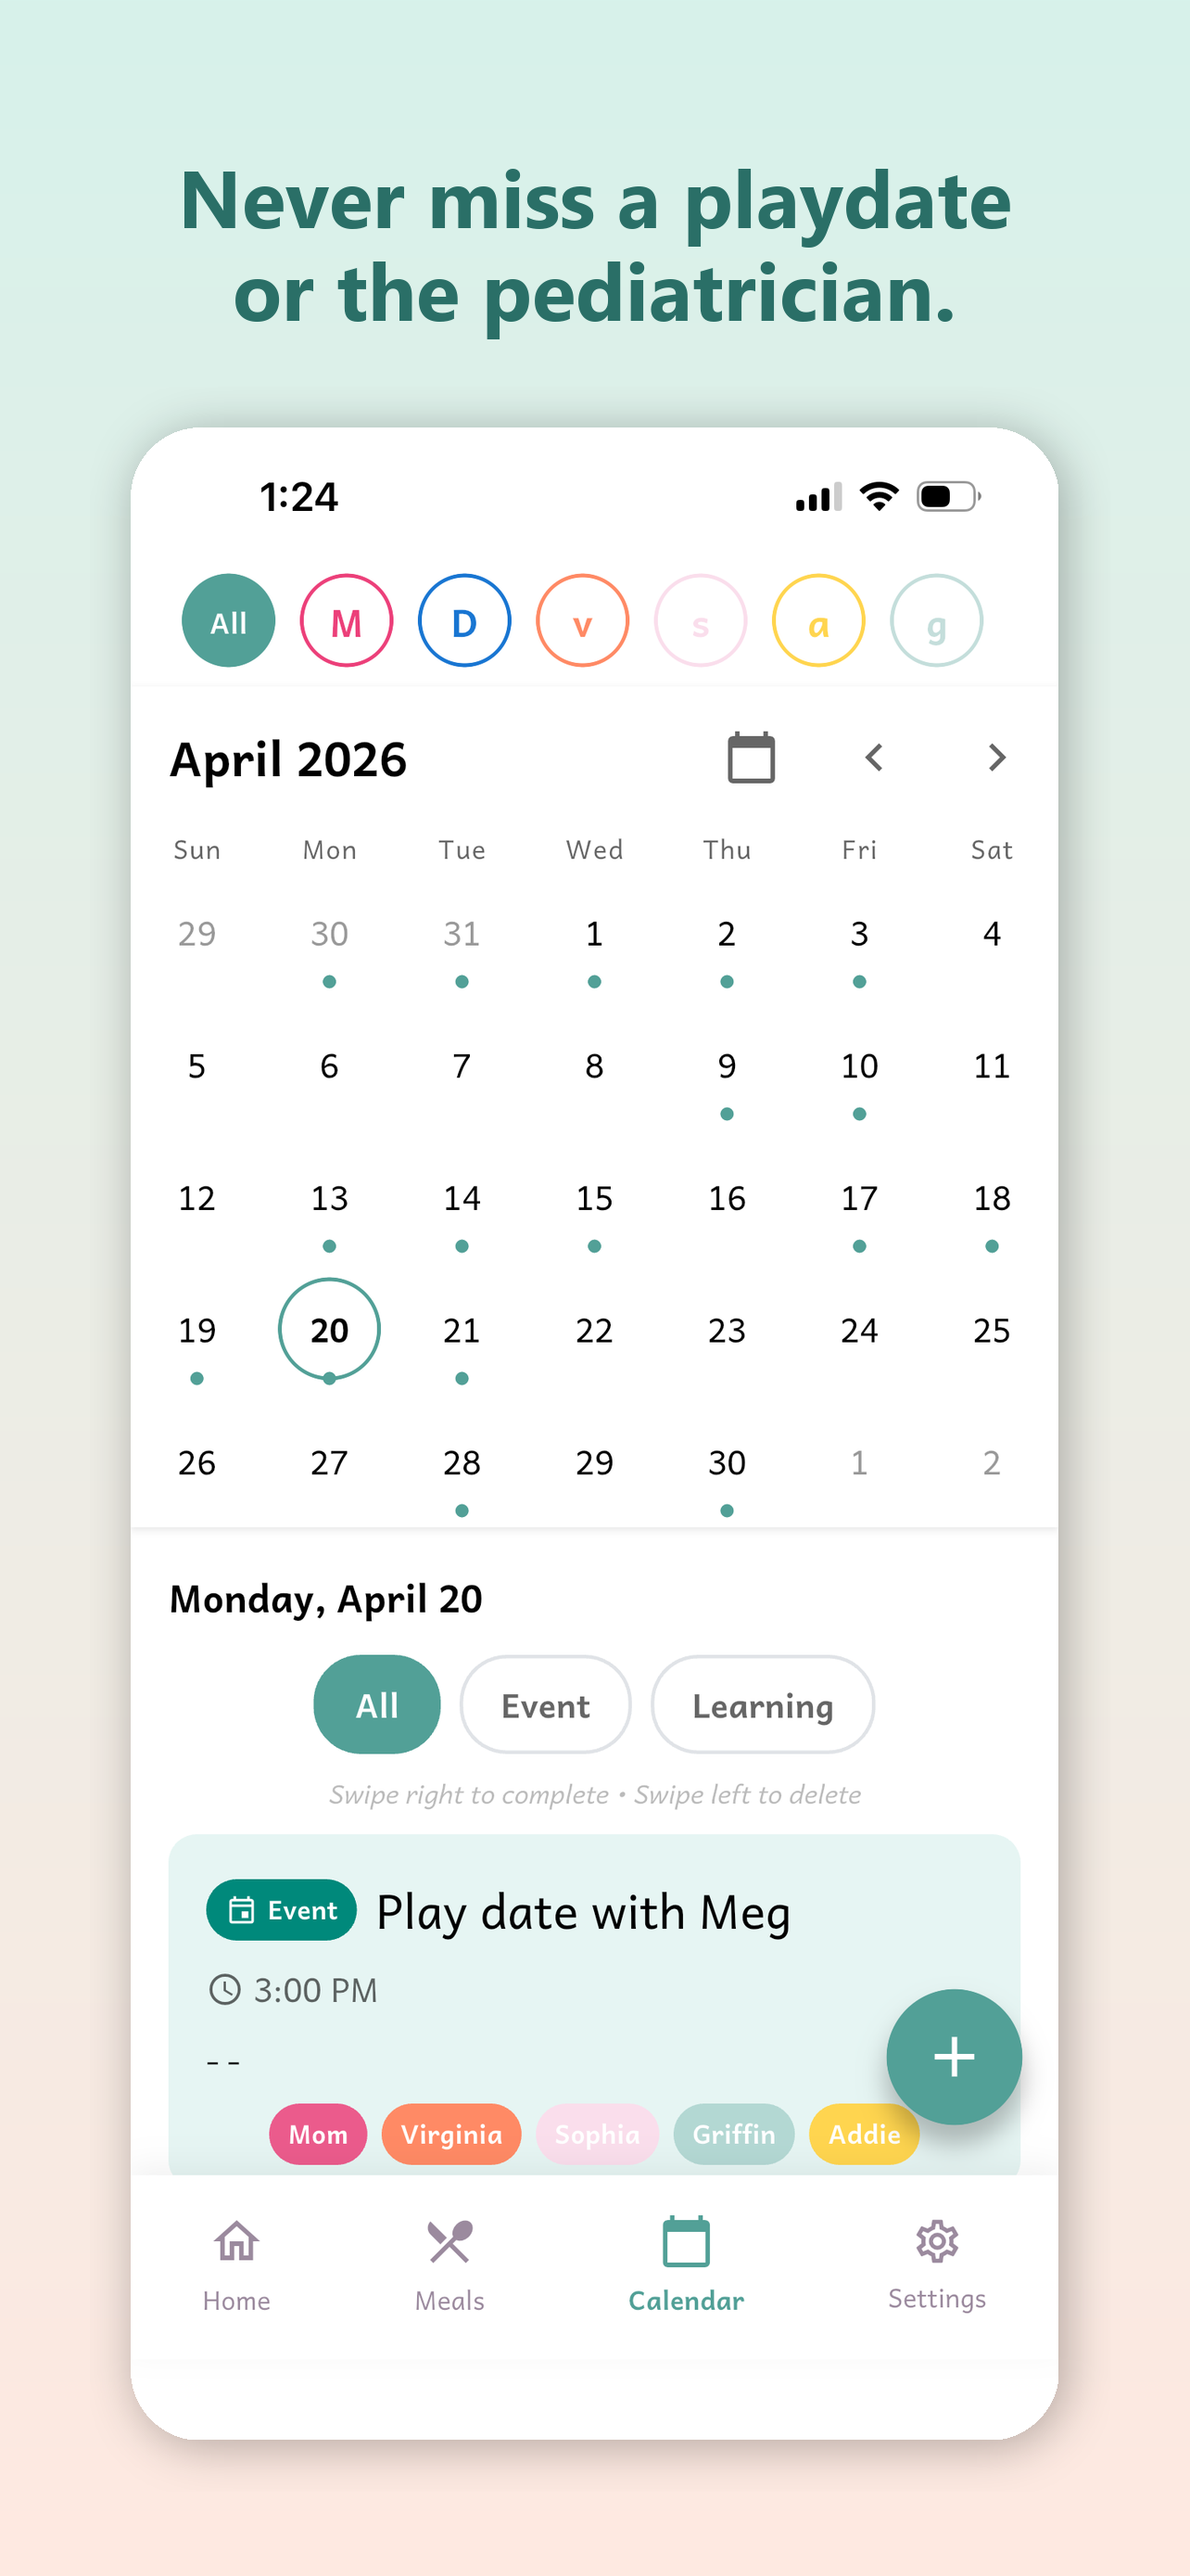
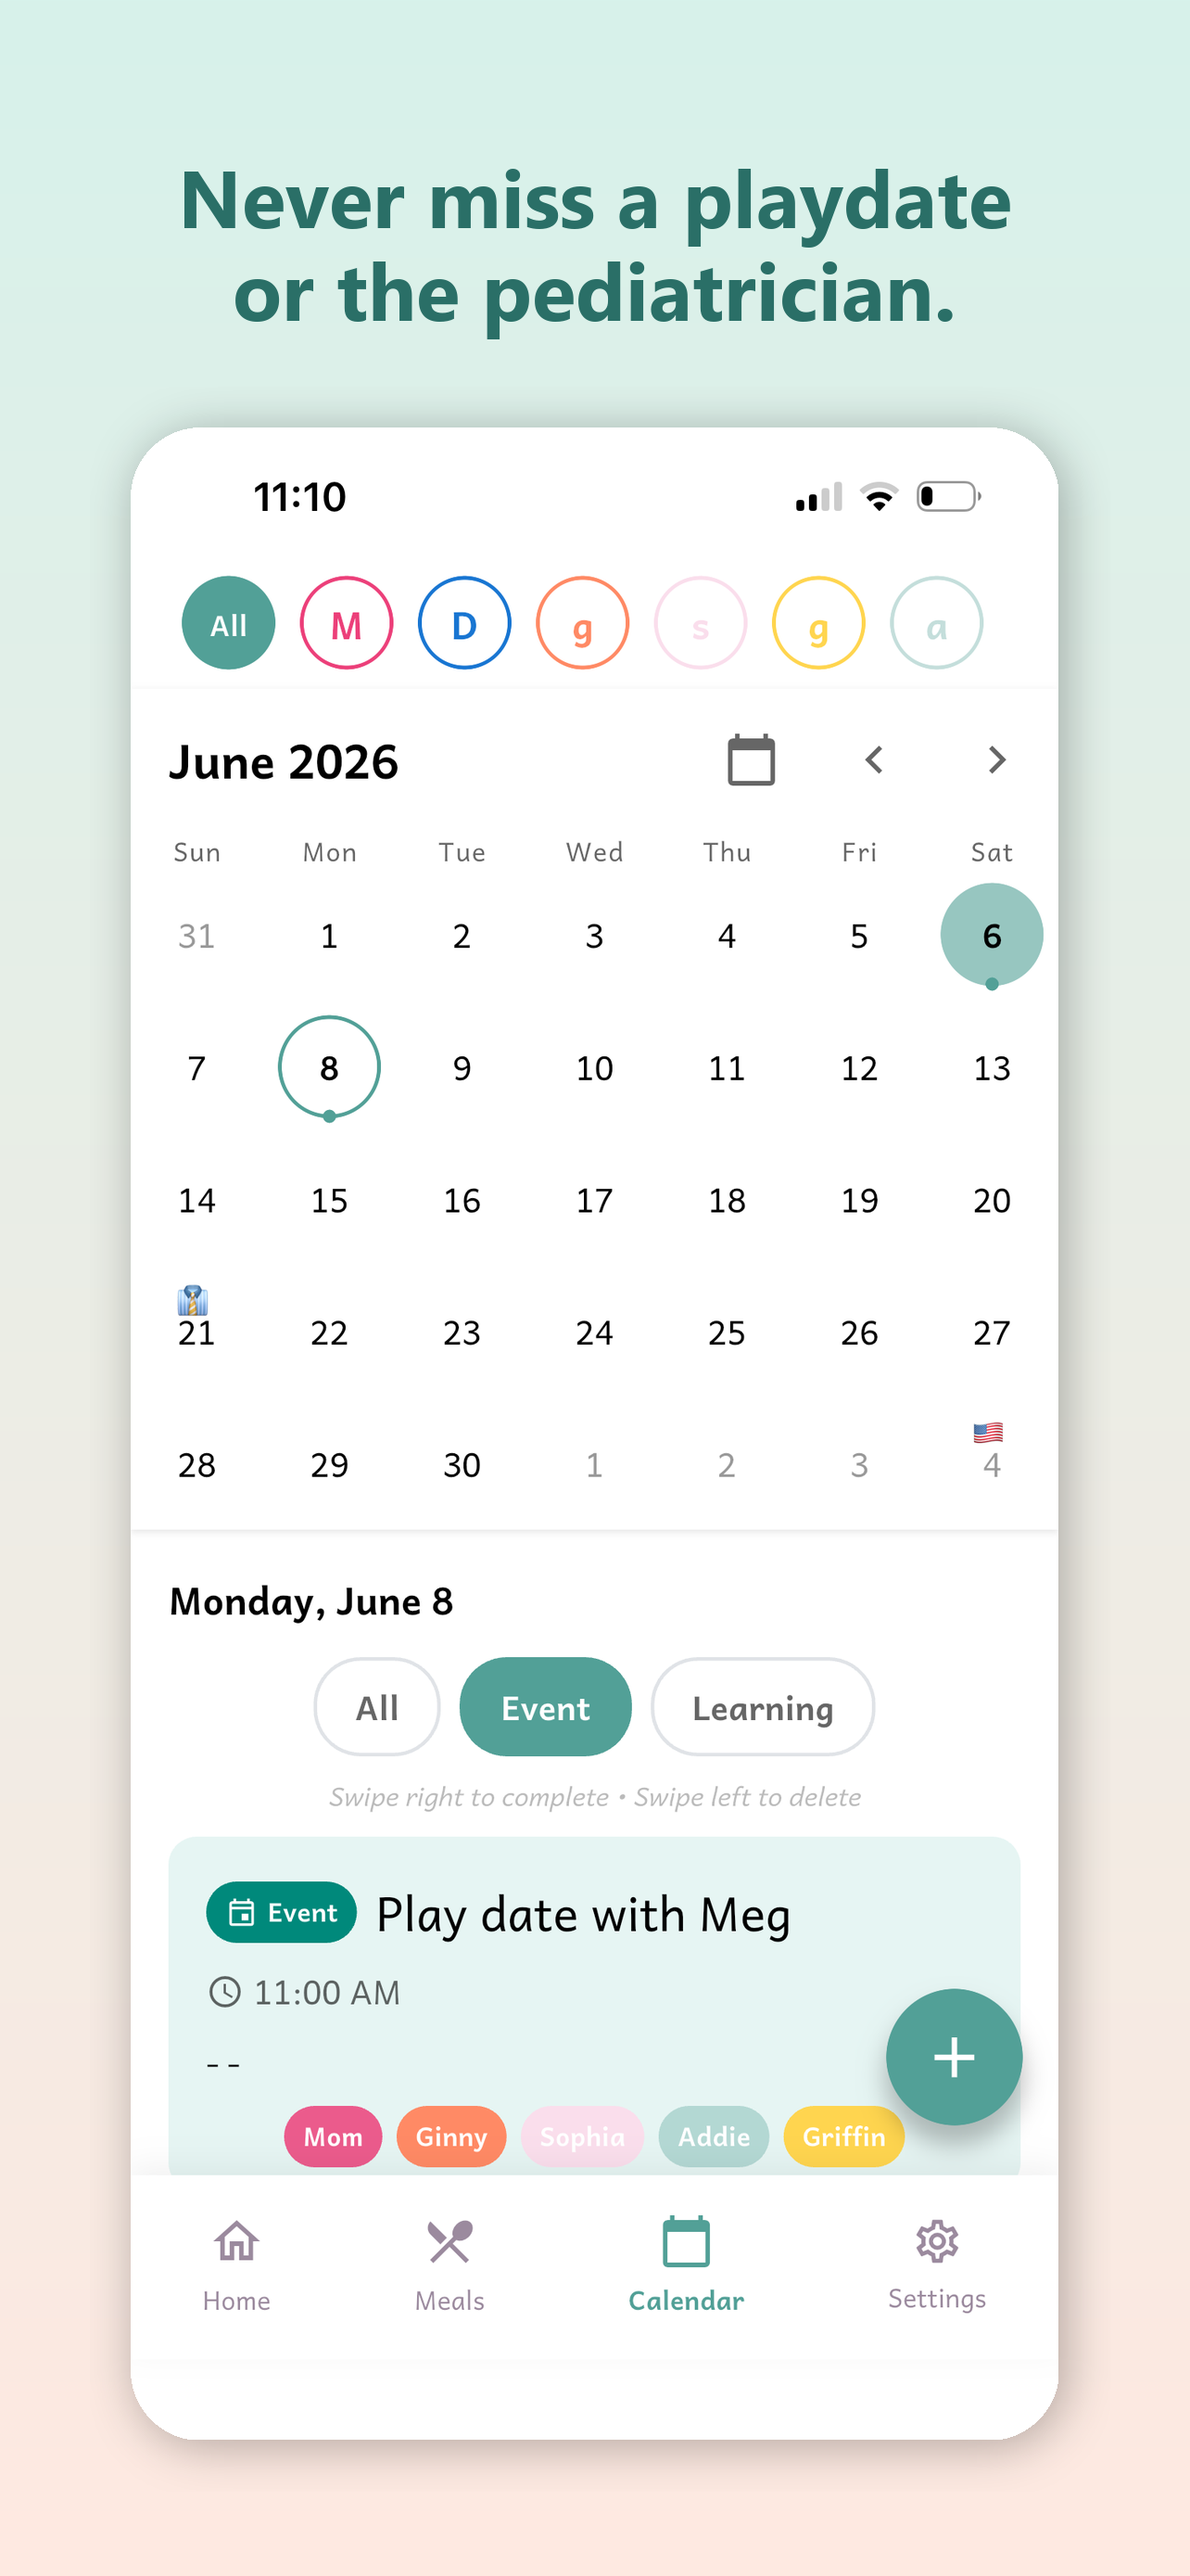
04_calendar: use new calendar.png shot (June, multi-kid 11am playdate)
Newer + more accurate than the April fallback. 11am playdate, multi-kid
event with 5 colored avatars, Event filter pill active, current month
context. Less event-dot density than the April one but reads as a real
current-state calendar.

diff --git a/app_store_assets/regen_screenshots.py b/app_store_assets/regen_screenshots.py
@@ -37,10 +37,7 @@ SHOTS = [
      "Every recipe,", "anywhere, saved."),
     ("1000004278.png", "03_meal_plan",
      "Plan the week.", "Hit the budget."),
-    # Use the older shot (1000004257) instead of 1000004281 — that one
-    # has populated event dots all month, 3pm playdate (not 12am), and
-    # all kid filters active. Reads way more like a real, used calendar.
-    ("1000004257.png", "04_calendar",
+    ("calendar.png", "04_calendar",
      "Never miss a playdate", "or the pediatrician."),
     ("1000004280.png", "05_milestones",
      "Every first,", "remembered."),
